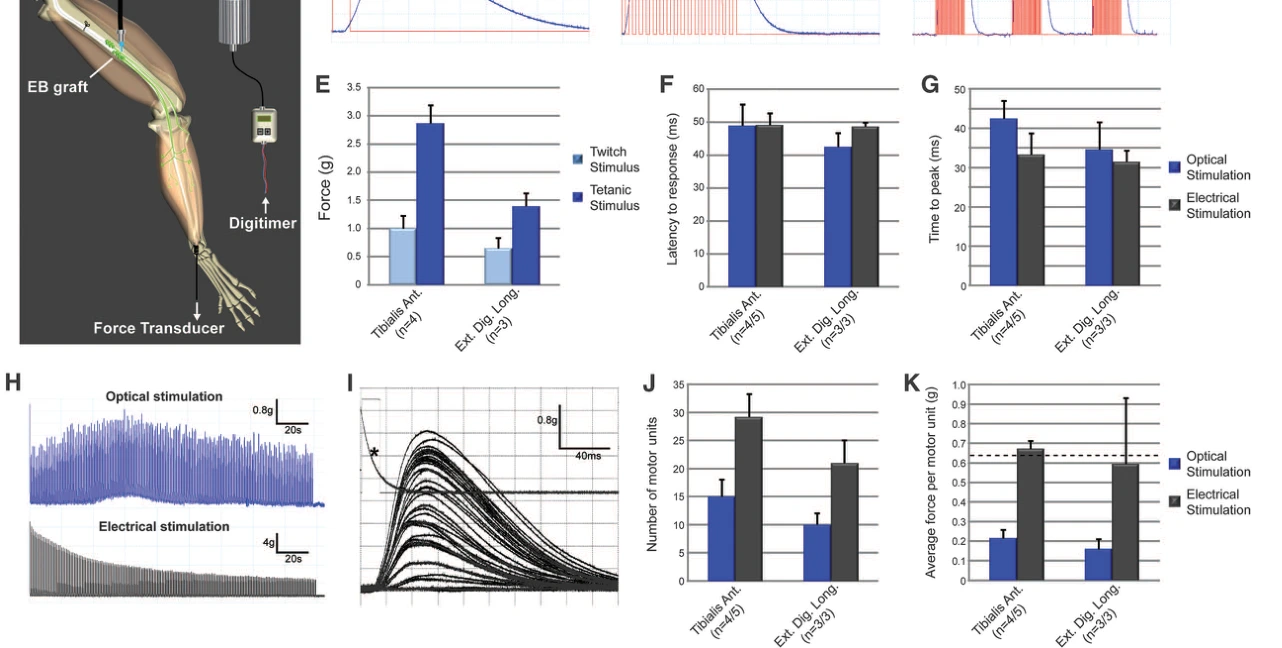
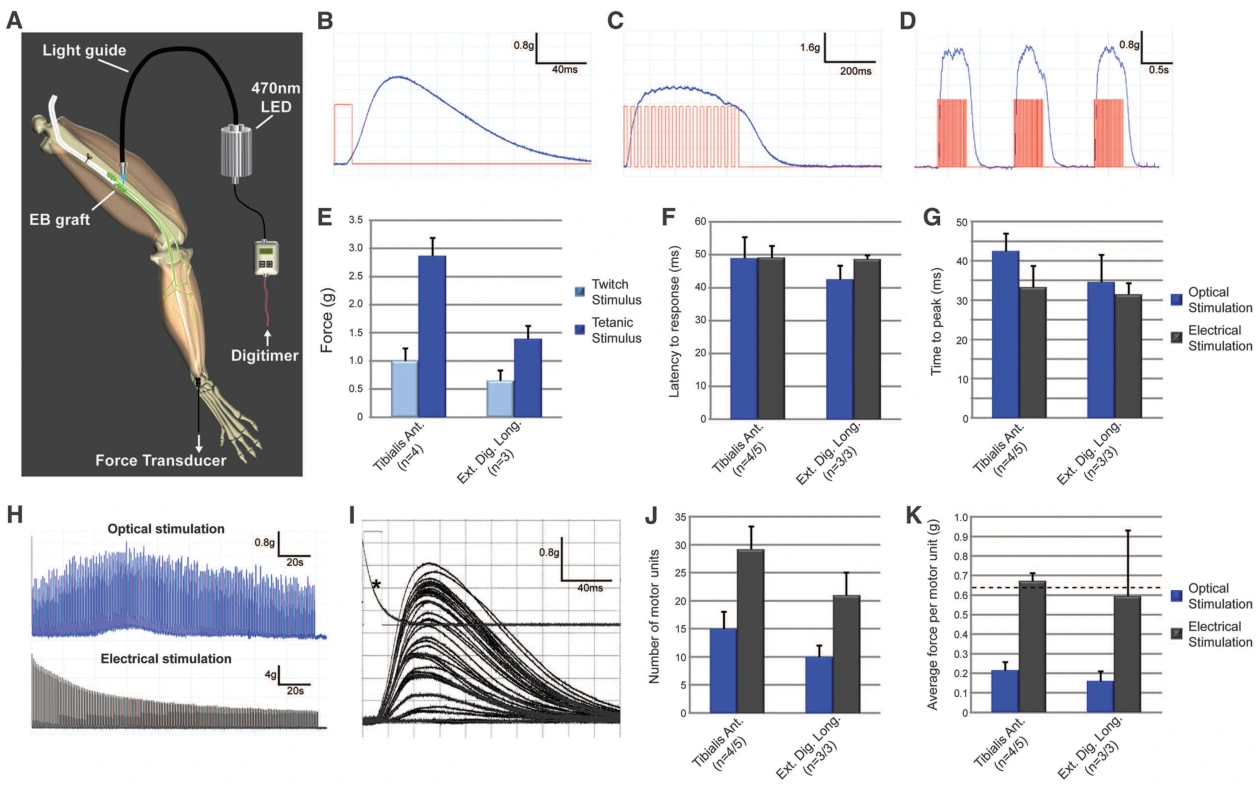
Restore full Figure 3 and separate figure legends into panel descriptions

diff --git a/data.js b/data.js
@@ -784,7 +784,7 @@ window.READING_DATA = {
       "figure": {
         "number": 1,
         "image": "assets/figure-1.webp",
-        "caption": "Fig. 1. Expression of Gdnf in ChR2 motor neurons enhances survival and enables them to mature electrically in vitro. (A) Embryoid bodies derived from CAG::ChR2-YFP/Gdnf transgenic ESCs and parental controls stained for the pan-motor neuron marker Isl1/2. GFP and YFP signals were detected by direct fluorescence. (B) Confocal images of MACSsorted ESC motor neurons derived from CAG::ChR2-YFP (MACS, magnetic-activated cell sorting) and CAG::ChR2-YFP/Gdnf ESCs immunostained for Gdnf and GFP/YFP. (C) Survival analysis of sorted CAG:: ChR2-YFP and CAG::ChR2-YFP/Gdnf ESC motor neurons (MNs) (200 cells per well) plated on ESC astrocytes at indicated time points. CAG::ChR2-YFP motor neurons were cultured with (10 ng/ml) or without recombinant Gdnf (two replicates, analysis of variance with Bonferroni correction, *P < 0.25). Error bars indicate SEM. One representative of three separate experiments is shown. Wt, wild type. (D) Optogenetic stimulation (blue bars) of CAG::ChR2-YFP/Gdnf ESC motor neurons cultured on ESC astrocytes. Scale bars in (A) and (B), 50 μm.",
+        "caption": "Fig. 1. Expression of Gdnf in ChR2 motor neurons enhances survival and enables them to mature electrically in vitro.\n(A) Embryoid bodies derived from CAG::ChR2-YFP/Gdnf transgenic ESCs and parental controls stained for the pan-motor neuron marker Isl1/2. GFP and YFP signals were detected by direct fluorescence.\n(B) Confocal images of MACSsorted ESC motor neurons derived from CAG::ChR2-YFP (MACS, magnetic-activated cell sorting) and CAG::ChR2-YFP/Gdnf ESCs immunostained for Gdnf and GFP/YFP.\n(C) Survival analysis of sorted CAG:: ChR2-YFP and CAG::ChR2-YFP/Gdnf ESC motor neurons (MNs) (200 cells per well) plated on ESC astrocytes at indicated time points. CAG::ChR2-YFP motor neurons were cultured with (10 ng/ml) or without recombinant Gdnf (two replicates, analysis of variance with Bonferroni correction, *P < 0.25). Error bars indicate SEM. One representative of three separate experiments is shown. Wt, wild type.\n(D) Optogenetic stimulation (blue bars) of CAG::ChR2-YFP/Gdnf ESC motor neurons cultured on ESC astrocytes. Scale bars in (A) and (B), 50 μm.",
         "terms": [
           {
             "term": "marker-isl",
@@ -885,7 +885,7 @@ window.READING_DATA = {
       "figure": {
         "number": 2,
         "image": "assets/figure-2.webp",
-        "caption": "Fig. 2. Robust axonal growth and reinnervation of distal muscles after engraftment of ChR2 motor neurons. (A) Image montage of a whole nerve and muscle section showing ChR2 motor neuron cell bodies at the graft site and axon projection (dashed lines indicate approximate trajectory). Scale bar, 500 μm. (B) Confocal image of engrafted ChR2 motor neurons immunolabeled for choline acetyltransferase (ChAT; left image) and GFP and/or YFP (merged image at right). Scale bar, 50 μm. (C) Confocal image of longitudinal and transverse common peroneal nerve sections showing both ChR2 motor neurons and endogenous axons. Scale bar, 50 μm. (D) Confocal images of engrafted ChR2 motor neuron axons showing myelination. Scale bar, 50 μm. (E) Confocal z-stack of ChR2 motor neuron axon terminals innervating multiple neuromuscular junctions within the TS muscle. Arrows indicate preterminal collateral sprouting, arrowheads denote terminal sprouting, and the asterisk indicates an endogenous motor axon. Scale bar, 50 μm. (F) Two-dimensional projection image of a TS muscle showing proportion of neuromuscular junctions (NMJs) innervated by engrafted ChR2 motor neurons, relative to the total number of end plates present [labeled with a-bungarotoxin (aBTx)]. Quantification is shown below. Representative images shown here are compiled from n = 4 engrafted nerves from three separate experiments.",
+        "caption": "Fig. 2. Robust axonal growth and reinnervation of distal muscles after engraftment of ChR2 motor neurons.\n(A) Image montage of a whole nerve and muscle section showing ChR2 motor neuron cell bodies at the graft site and axon projection (dashed lines indicate approximate trajectory). Scale bar, 500 μm.\n(B) Confocal image of engrafted ChR2 motor neurons immunolabeled for choline acetyltransferase (ChAT; left image) and GFP and/or YFP (merged image at right). Scale bar, 50 μm.\n(C) Confocal image of longitudinal and transverse common peroneal nerve sections showing both ChR2 motor neurons and endogenous axons. Scale bar, 50 μm.\n(D) Confocal images of engrafted ChR2 motor neuron axons showing myelination. Scale bar, 50 μm.\n(E) Confocal z-stack of ChR2 motor neuron axon terminals innervating multiple neuromuscular junctions within the TS muscle. Arrows indicate preterminal collateral sprouting, arrowheads denote terminal sprouting, and the asterisk indicates an endogenous motor axon. Scale bar, 50 μm.\n(F) Two-dimensional projection image of a TS muscle showing proportion of neuromuscular junctions (NMJs) innervated by engrafted ChR2 motor neurons, relative to the total number of end plates present [labeled with a-bungarotoxin (aBTx)]. Quantification is shown below. Representative images shown here are compiled from n = 4 engrafted nerves from three separate experiments.",
         "terms": [
           {
             "term": "t29",
@@ -1008,11 +1008,11 @@ window.READING_DATA = {
       ],
       "figure": {
         "number": 3,
-        "image": "assets/figure-3.webp",
-        "caption": "Fig. 3. Restoration of muscle function, in a controlled manner, using optical stimulation of engrafted ChR2 motor neurons in vivo. (A) Schematic showing optical stimulation and isometric muscle tension recordings. EB, embryoid body. Representative twitch (B), tetanic (C), and repetitive tetanic (D) contraction traces obtained from the TA muscle, induced by optical stimulation. Blue line, muscle force; red line, electrical trigger signals sent to the LED unit. (E) Quantification of twitch and tetanic contraction of TA and EDL muscles. Time to peak contractile force, from initiation of the electrical trigger to the LED unit (F) or from the initiation of muscle contraction (G), is shown alongside direct electrical nerve stimulation (n values represent optical/electrical stimulation, respectively, compiled from four separate experiments). (H) Representative fatigue traces from TA muscles (different animals) produced by optical (top) or electrical (bottom) stimulation for 180 s. (I) Representative TA muscle optical stimulation motor-unit number estimate trace. The asterisk indicates square-wave trigger voltage to the LED unit and oscilloscope trigger. (J) Motor-unit number quantification of TA and EDL muscles after optical versus electrical stimulation. (K) Analysis of average motor-unit force. The dashed line indicates the normal EDL value. All error bars indicate SEM.",
+        "image": "assets/figure-3.webp?v=complete-2",
+        "caption": "Fig. 3. Restoration of muscle function, in a controlled manner, using optical stimulation of engrafted ChR2 motor neurons in vivo.\n(A) Schematic showing optical stimulation and isometric muscle tension recordings. EB, embryoid body.\n(B) Representative twitch contraction trace obtained from the TA muscle, induced by optical stimulation.\n(C) Representative tetanic contraction trace obtained from the TA muscle, induced by optical stimulation.\n(D) Representative repetitive tetanic contraction trace obtained from the TA muscle, induced by optical stimulation. For the traces in panels B–D, blue line, muscle force; red line, electrical trigger signals sent to the LED unit.\n(E) Quantification of twitch and tetanic contraction of TA and EDL muscles.\n(F) Time to peak contractile force from initiation of the electrical trigger to the LED unit, shown alongside direct electrical nerve stimulation.\n(G) Time to peak contractile force from initiation of muscle contraction, shown alongside direct electrical nerve stimulation. For panels F–G, n values represent optical/electrical stimulation, respectively, compiled from four separate experiments.\n(H) Representative fatigue traces from TA muscles (different animals) produced by optical (top) or electrical (bottom) stimulation for 180 s.\n(I) Representative TA muscle optical stimulation motor-unit number estimate trace. The asterisk indicates square-wave trigger voltage to the LED unit and oscilloscope trigger.\n(J) Motor-unit number quantification of TA and EDL muscles after optical versus electrical stimulation.\n(K) Analysis of average motor-unit force. The dashed line indicates the normal EDL value. All error bars indicate SEM.",
         "terms": [],
-        "width": 534,
-        "height": 270
+        "width": 523.817066192627,
+        "height": 329.927490234375
       },
       "prompt": "What was actually measured? How do the optical and electrical comparisons differ, and how far do the results support the main claim?"
     },

diff --git a/app.js b/app.js
@@ -14,6 +14,6 @@ function markedText(text){const frag=document.createDocumentFragment();let pos=0
 function textBlock(text){const p=document.createElement('p');p.append(markedText(text));return p;}
 function disclosure(label,text){const details=document.createElement('details');const summary=document.createElement('summary');summary.textContent=label;details.append(summary,textBlock(text));return details;}
 function renderStage(){const stage=data.stages[current];content.replaceChildren();const title=document.createElement('h1');title.className='section-title';title.textContent=stage.label;content.append(title);const article=document.createElement('article');for(const paragraph of stage.paragraphs)article.append(textBlock(paragraph));content.append(article);
-if(stage.figure){const f=stage.figure,figure=document.createElement('figure');figure.className='stage-figure';const imagebox=document.createElement('div');imagebox.className='figure-image';const image=document.createElement('img');image.src=f.image;image.alt='Figure '+f.number+' from Bryson et al.; original caption follows.';image.width=f.width*2.4;image.height=f.height*2.4;imagebox.append(image);for(const hit of f.terms){const b=document.createElement('button');b.type='button';b.className='term-hotspot';b.style.cssText=`left:${hit.x}%;top:${hit.y}%;width:${hit.w}%;height:${hit.h}%;`;b.dataset.term=hit.term;b.title=terms.get(hit.term).term;b.setAttribute('aria-label','Define figure label '+terms.get(hit.term).term);b.addEventListener('click',()=>showTerm(hit.term));imagebox.append(b);}figure.append(imagebox);const cap=document.createElement('figcaption');cap.append(markedText(f.caption));figure.append(cap);content.append(figure);}
+if(stage.figure){const f=stage.figure,figure=document.createElement('figure');figure.className='stage-figure';const imagebox=document.createElement('div');imagebox.className='figure-image';const image=document.createElement('img');image.src=f.image;image.alt='Figure '+f.number+' from Bryson et al.; original caption follows.';image.width=f.width*2.4;image.height=f.height*2.4;imagebox.append(image);for(const hit of f.terms){const b=document.createElement('button');b.type='button';b.className='term-hotspot';b.style.cssText=`left:${hit.x}%;top:${hit.y}%;width:${hit.w}%;height:${hit.h}%;`;b.dataset.term=hit.term;b.title=terms.get(hit.term).term;b.setAttribute('aria-label','Define figure label '+terms.get(hit.term).term);b.addEventListener('click',()=>showTerm(hit.term));imagebox.append(b);}figure.append(imagebox);const cap=document.createElement('figcaption');for(const line of f.caption.split(/\n+/)){if(line.trim())cap.append(textBlock(line.trim()));}figure.append(cap);content.append(figure);}
 if(stage.prompt){const discussion=document.createElement('section');discussion.className='discussion';if(stage.id==='intro'){discussion.append(disclosure('Questions',stage.prompt));}else{const prompt=document.createElement('p');prompt.textContent=stage.prompt;discussion.append(prompt);}content.append(discussion);}document.querySelector('#stage-progress').textContent=(current+1)+' / '+data.stages.length;document.querySelector('#previous').disabled=current===0;document.querySelector('#next').disabled=current===data.stages.length-1;document.querySelector('#term-title').textContent='Definition';document.querySelector('#term-definition').textContent='Tap an underlined term in the text.';reading.scrollTop=0;}
 document.querySelector('#previous').addEventListener('click',()=>{if(current>0){current--;renderStage();}});document.querySelector('#next').addEventListener('click',()=>{if(current<data.stages.length-1){current++;renderStage();}});renderStage();

diff --git a/style.css b/style.css
@@ -1,1 +1,3 @@
 :root{color-scheme:light;--ink:#202a25;--line:#d7ddd8;--accent:#23694f}*{box-sizing:border-box}body{margin:0;background:#fafbf9;color:var(--ink);font:17px/1.8 Georgia,'Times New Roman',serif}button{touch-action:manipulation;cursor:pointer}button:focus-visible{outline:3px solid #ca963e;outline-offset:3px}.reader-layout{display:grid;grid-template-columns:minmax(0,1fr) 270px;gap:24px;max-width:1320px;margin:auto;padding:24px;height:100dvh}.reading{overflow-y:auto;overscroll-behavior:contain;border:1px solid var(--line);background:#fff;padding:30px 38px;scrollbar-gutter:stable}.reading:focus{outline:none}.tools{display:flex;flex-direction:column;min-height:0;gap:18px}.definition{border:1px solid var(--line);background:white;padding:23px;flex:1;overflow-y:auto}.definition h2{font:600 17px/1.45 system-ui;margin:0 0 15px;overflow-wrap:anywhere}.definition p{font:15px/1.8 system-ui;margin:0;color:#46564b}.navigation{flex:none;padding:0 8px 5px;font:12px system-ui;color:#647168}.navigation>span{display:block;margin-bottom:10px}.navigation>div{display:flex;gap:14px}.navigation button{font:27px/1 system-ui;width:62px;height:44px;background:white;border:1px solid var(--line);border-radius:3px;color:var(--accent)}.navigation button:disabled{opacity:.3;cursor:default}.section-title{font:600 18px/1.5 system-ui;margin:0 0 25px}.reading p{margin:0 0 23px}.inline-term{display:inline;font:inherit;line-height:inherit;color:inherit;padding:0;margin:0;border:0;border-bottom:1px dotted var(--accent);background:transparent;text-align:left}.inline-term:hover,.inline-term.selected{background:#e6efe8}.stage-figure{margin:30px 0}.figure-image{position:relative;line-height:0}.figure-image img{display:block;width:100%;height:auto}.term-hotspot{position:absolute;z-index:1;background:#83b99b24;border:0;border-bottom:1px dotted var(--accent);padding:0}.term-hotspot:hover,.term-hotspot.selected{background:#8bc19c55}.stage-figure figcaption{font:13px/1.8 system-ui;color:#46564b;margin-top:16px}details{margin:24px 0;border-top:1px solid var(--line);padding:17px 0;font:15px/1.8 Georgia,serif}summary{font:12px/1.7 system-ui;color:var(--accent);cursor:pointer}details p{margin-top:15px!important}.discussion{margin-top:30px;padding-top:20px;border-top:1px solid var(--line)}.discussion p{font:17px/1.65 Georgia,serif}.figure-keys{display:flex;flex-wrap:wrap;gap:8px;margin-top:12px}.figure-keys button{font:11px/1.5 system-ui;border:1px solid var(--line);background:#fff;color:var(--accent);padding:5px 7px;border-radius:3px}@media(max-width:700px){.reader-layout{display:flex;flex-direction:column;gap:12px;padding:12px;height:100dvh}.reading{flex:1;min-height:0;padding:22px 21px;font-size:17px;line-height:1.85}.tools{flex:none;display:grid;grid-template-columns:minmax(0,1fr) 108px;gap:12px;height:160px;min-height:0}.definition{padding:13px 15px;min-height:0}.definition h2{font-size:14px;margin-bottom:7px}.definition p{font-size:12px;line-height:1.6}.navigation{padding:15px 0 0}.navigation>div{gap:8px}.navigation button{width:46px;height:41px;font-size:25px}.section-title{font-size:17px;margin-bottom:20px}.stage-figure{margin:22px -9px}.stage-figure figcaption{font-size:12px;padding:0 9px}.figure-keys{padding-inline:9px}}@media print{.reader-layout{height:auto;display:block;padding:0}.reading{border:0;overflow:visible;padding:0}.tools{display:none}}
+
+.stage-figure figcaption p{margin:0 0 8px}.stage-figure figcaption p:last-child{margin-bottom:0}

diff --git a/index.html b/index.html
@@ -1,1 +1,1 @@
-<!doctype html><html lang="en"><head><meta charset="utf-8"><meta name="viewport" content="width=device-width,initial-scale=1"><title>Bryson et al. · Guided reading</title><link rel="stylesheet" href="style.css"><script defer src="data.js?v=questions-2"></script><script defer src="app.js?v=questions-2"></script></head><body><main class="reader-layout"><section id="reading" class="reading" aria-label="Paper section" tabindex="-1"><div id="stage-content"></div></section><aside class="tools"><section class="definition" aria-live="polite" aria-atomic="true"><h2 id="term-title">Definition</h2><p id="term-definition">Tap an underlined term in the text.</p></section><nav class="navigation" aria-label="Reading navigation"><span id="stage-progress">1 / 5</span><div><button id="previous" aria-label="Previous section">←</button><button id="next" aria-label="Next section">→</button></div></nav></aside></main></body></html>
+<!doctype html><html lang="en"><head><meta charset="utf-8"><meta name="viewport" content="width=device-width,initial-scale=1"><title>Bryson et al. · Guided reading</title><link rel="stylesheet" href="style.css?v=figures-3"><script defer src="data.js?v=figures-3"></script><script defer src="app.js?v=figures-3"></script></head><body><main class="reader-layout"><section id="reading" class="reading" aria-label="Paper section" tabindex="-1"><div id="stage-content"></div></section><aside class="tools"><section class="definition" aria-live="polite" aria-atomic="true"><h2 id="term-title">Definition</h2><p id="term-definition">Tap an underlined term in the text.</p></section><nav class="navigation" aria-label="Reading navigation"><span id="stage-progress">1 / 5</span><div><button id="previous" aria-label="Previous section">←</button><button id="next" aria-label="Next section">→</button></div></nav></aside></main></body></html>
